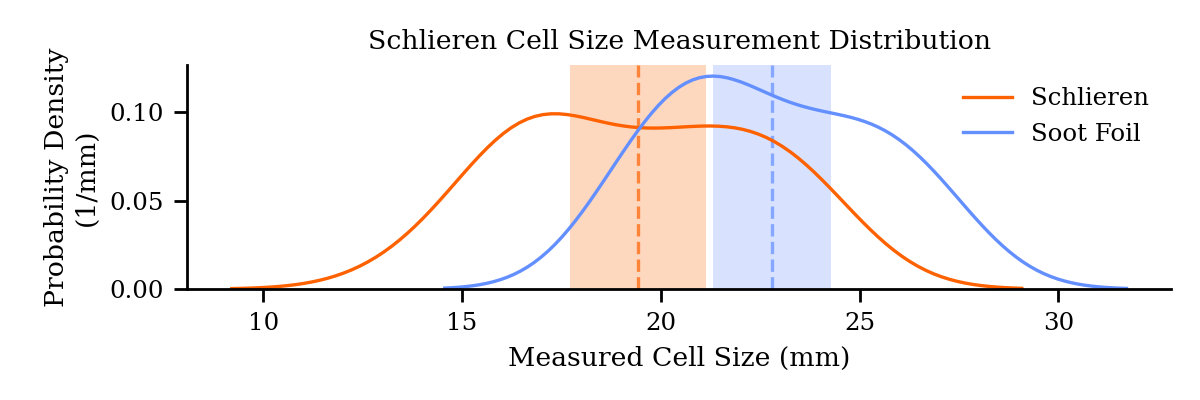
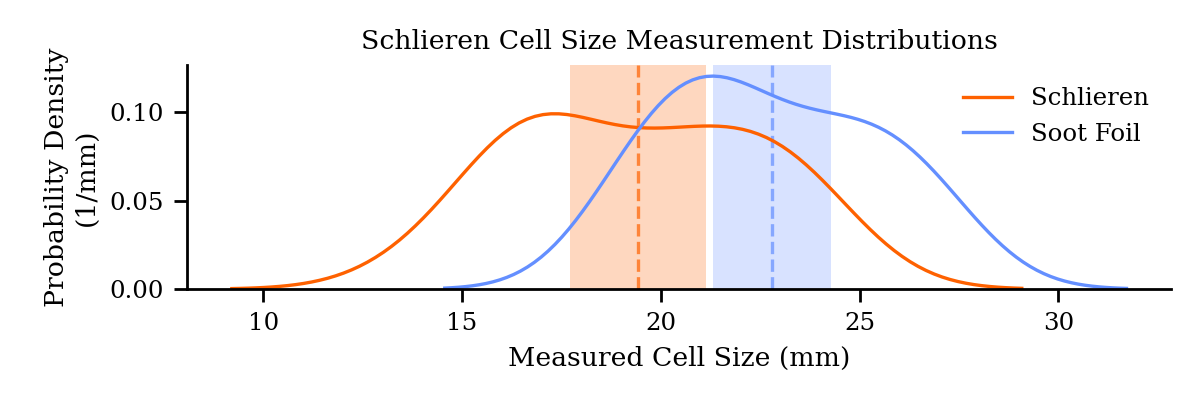
Make distribution comparison zero-centered

Changed region(s): [[0.3083, 0.06, 0.8325, 0.12]]

diff --git a/scripts/measurement_paper/generate_images.py b/scripts/measurement_paper/generate_images.py
@@ -991,6 +991,7 @@ def plot_cell_size_comparison(
         plot_width,
         plot_height,
         save=False,
+        zero_centered=False,
 ):
     """
     Plot comparison between schlieren and soot foil cell size measurement
@@ -1016,12 +1017,20 @@ def plot_cell_size_comparison(
         Height of plot (in)
     save : bool
         Whether or not to save images
+    zero_centered : bool
+        Whether or not to center about zero
 
     Returns
     -------
 
     """
+    plot_title = "Schlieren Cell Size Measurement Distributions"
     name = "cell_size_comparison"
+    if zero_centered:
+        name += "_zero_centered"
+        plot_title += " (Zero Centered)"
+        measurements_foil -= cell_size_meas_foil
+        measurements_schlieren -= cell_size_meas_schlieren
     fig, ax = plt.subplots(figsize=(plot_width, plot_height))
     fig.canvas.set_window_title(name)
     sns.distplot(  # schlieren
@@ -1041,45 +1050,46 @@ def plot_cell_size_comparison(
         kde_kws={"ls": "-"},
     )
     plt.legend(frameon=False)
-    ax_ylim = ax.get_ylim()
-    plt.fill_between(  # schlieren
-        [cell_size_meas_schlieren + cell_size_uncert_schlieren,
-         cell_size_meas_schlieren - cell_size_uncert_schlieren],
-        ax_ylim[0],
-        ax_ylim[1],
-        alpha=0.25,
-        color=COLOR_SC,
-        ec=None,
-        zorder=-1,
-    )
-    ax.fill_between(  # soot foil
-        [cell_size_meas_foil + cell_size_uncert_foil,
-         cell_size_meas_foil - cell_size_uncert_foil],
-        ax_ylim[0],
-        ax_ylim[1],
-        alpha=0.25,
-        color=COLOR_SF,
-        ec=None,
-        zorder=-1,
-    )
-    ax.axvline(  # schlieren
-        cell_size_meas_schlieren,
-        c=COLOR_SC,
-        ls="--",
-        alpha=0.7,
-        zorder=-1,
-    )
-    ax.axvline(  # soot foil
-        cell_size_meas_foil,
-        color=COLOR_SF,
-        ls="--",
-        alpha=0.7,
-        zorder=-1,
-    )
-    ax.set_ylim(ax_ylim)
+    if not zero_centered:
+        ax_ylim = ax.get_ylim()
+        plt.fill_between(  # schlieren
+            [cell_size_meas_schlieren + cell_size_uncert_schlieren,
+             cell_size_meas_schlieren - cell_size_uncert_schlieren],
+            ax_ylim[0],
+            ax_ylim[1],
+            alpha=0.25,
+            color=COLOR_SC,
+            ec=None,
+            zorder=-1,
+        )
+        ax.fill_between(  # soot foil
+            [cell_size_meas_foil + cell_size_uncert_foil,
+             cell_size_meas_foil - cell_size_uncert_foil],
+            ax_ylim[0],
+            ax_ylim[1],
+            alpha=0.25,
+            color=COLOR_SF,
+            ec=None,
+            zorder=-1,
+        )
+        ax.axvline(  # schlieren
+            cell_size_meas_schlieren,
+            c=COLOR_SC,
+            ls="--",
+            alpha=0.7,
+            zorder=-1,
+        )
+        ax.axvline(  # soot foil
+            cell_size_meas_foil,
+            color=COLOR_SF,
+            ls="--",
+            alpha=0.7,
+            zorder=-1,
+        )
+        ax.set_ylim(ax_ylim)
     ax.set_xlabel("Measured Cell Size (mm)")
     ax.set_ylabel("Probability Density\n(1/mm)")
-    ax.set_title("Schlieren Cell Size Measurement Distributions")
+    ax.set_title(plot_title)
     ax.grid(False)
     sns.despine()
     plt.tight_layout()
@@ -1181,6 +1191,19 @@ def main(
         plot_width,
         plot_height,
         save,
+        zero_centered=False
+    )
+    plot_cell_size_comparison(
+        unp.nominal_values(schlieren_meas),
+        cell_size_meas_schlieren,
+        cell_size_uncert_schlieren,
+        unp.nominal_values(measurements_foil),
+        cell_size_meas_foil,
+        cell_size_uncert_foil,
+        plot_width,
+        plot_height,
+        save,
+        zero_centered=True
     )
     foil_to_schlieren = un.ufloat(
         cell_size_meas_foil,
@@ -1206,14 +1229,14 @@ def main(
               f"    p: {t_p_value:0.3e}\n" \
               f"    a: {alpha}\n\n"
 
-    # compare distributions
+    # center distributions about zero and compare them
     ks_stat, ks_p_value = ks_2samp(
-        unp.nominal_values(measurements_foil),
-        unp.nominal_values(schlieren_meas),
+        unp.nominal_values(measurements_foil) - cell_size_meas_foil,
+        unp.nominal_values(schlieren_meas) - cell_size_meas_schlieren,
     )
     ks_test_null = check_null_hypothesis(ks_p_value, alpha)
     dists = f"{ks_test_null} the null hypothesis that distributions are equal"
-    report += get_title_block("Distributions")
+    report += get_title_block("Distributions (zero centered)")
     report += f"{dists}\n" \
               f"    test statistic: {ks_stat:0.2f}\n" \
               f"    p: {ks_p_value:0.3e}\n" \
